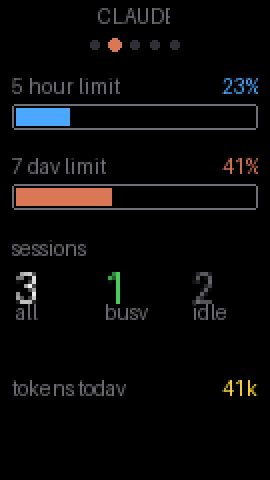
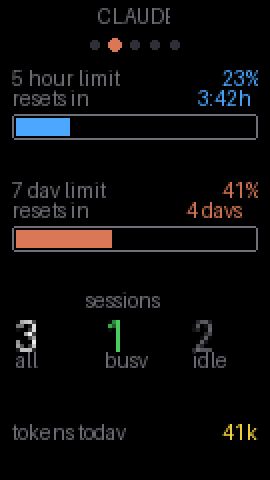
Show when each rate limit resets
The Claude screen said how much of each window was gone but not when it
comes back, which is the half you act on: 92% with four hours left and 92%
with ten minutes left call for opposite decisions.

`resets_at` was already arriving from the status line and going nowhere.
The bridge now turns it into seconds-remaining and sends that, rather than
the epoch stamp: the stick's clock is only ever what the bridge set, so one
side doing the arithmetic means the two cannot disagree about the hour. A
stamp already in the past reads as unknown, not as zero - the percentage
beside it is stale too.

Each limit is now three rows - name and number, countdown, bar - with the
5-hour window in H:MMh and the weekly one in days.

diff --git a/device/main.py b/device/main.py
@@ -581,6 +581,36 @@ def compact(number):
     return str(number)
 
 
+def hours_left(seconds):
+    """A countdown as '3:42h'. None when the bridge has no reset time.
+
+    Hours and minutes, never seconds: the window is five hours long, and a
+    ticking seconds field on a screen that repaints every few seconds would read
+    as noise rather than as information.
+    """
+    if seconds is None:
+        return None
+    seconds = int(seconds)
+    if seconds <= 0:
+        return "0:00h"
+    return "%d:%02dh" % (seconds // 3600, (seconds % 3600) // 60)
+
+
+def days_left(seconds):
+    """The weekly window as '4 days'.
+
+    Below a day it falls back to hours, because '0 days' is the one answer that
+    reads as broken rather than as nearly-there.
+    """
+    if seconds is None:
+        return None
+    seconds = int(seconds)
+    if seconds < 86400:
+        return hours_left(seconds)
+    days = seconds // 86400
+    return "%d day%s" % (days, "" if days == 1 else "s")
+
+
 def name_size(name):
     """Largest text size the name fits in, capped at 2."""
     Lcd.setTextSize(2)
@@ -709,20 +739,25 @@ def draw_header(index):
             Lcd.fillCircle(left + i * step, dot_y, 2, DARK)
 
 
-def draw_labelled_bar(y, label, value, colour, suffix="%"):
-    """A bar with its name above and its number on the right.
+def draw_labelled_bar(y, label, value, colour, suffix="%", resets=None):
+    """One limit: its name and number, when it rolls over, then the bar.
 
-    The bar hangs off the measured text height rather than a fixed offset, so
-    it keeps its distance if the caption ever changes size.
+    Everything hangs off the measured text height rather than fixed offsets, so
+    the block keeps its spacing if the captions ever change size.
+
+    The countdown sits between the caption and the bar on purpose. A limit is
+    two facts - how much is gone and how long until it comes back - and the
+    second is useless anywhere but next to the first.
     """
     # The caption sits five pixels below the block's reference line, which pulls
-    # it clear of whatever is above and closer to the bar it names - the two
-    # belong together, and the gap upwards is what separates one limit from the
-    # next.
-    label_y = y + 5
-    bar_y = y + Lcd.fontHeight() + 10
-
+    # it clear of whatever is above and closer to the bar it names - the three
+    # rows belong together, and the gap upwards is what separates one limit from
+    # the next.
     Lcd.setTextSize(1)
+    label_y = y + 5
+    reset_y = label_y + Lcd.fontHeight() + 2
+    bar_y = reset_y + Lcd.fontHeight() + 4
+
     Lcd.setTextColor(GREY, BLACK)
     Lcd.drawString(label, 6, label_y)
 
@@ -730,23 +765,36 @@ def draw_labelled_bar(y, label, value, colour, suffix="%"):
         Lcd.setTextColor(GREY, BLACK)
         Lcd.drawRightString("--", WIDTH - 6, label_y)
         draw_bar(6, bar_y, WIDTH - 12, BAR_H, 0.0, DARK)
-        return
+    else:
+        Lcd.setTextColor(colour, BLACK)
+        Lcd.drawRightString("%d%s" % (value, suffix), WIDTH - 6, label_y)
+        draw_bar(6, bar_y, WIDTH - 12, BAR_H, value / 100.0, colour)
 
-    Lcd.setTextColor(colour, BLACK)
-    Lcd.drawRightString("%d%s" % (value, suffix), WIDTH - 6, label_y)
-    draw_bar(6, bar_y, WIDTH - 12, BAR_H, value / 100.0, colour)
+    # Absent for the same reasons the percentage is - no subscription, or no API
+    # response yet - and absent on its own once a window has rolled over and
+    # nothing has reported since. "--" is a real state here too.
+    Lcd.setTextColor(GREY, BLACK)
+    Lcd.drawString("resets in", 6, reset_y)
+    Lcd.setTextColor(colour if resets else GREY, BLACK)
+    Lcd.drawRightString(resets or "--", WIDTH - 6, reset_y)
 
 
 def draw_claude(state):
     draw_header(SCREEN_CLAUDE)
 
-    draw_labelled_bar(34, "5 hour limit", state.get("five_hour"), BLUE)
-    draw_labelled_bar(74, "7 day limit", state.get("seven_day"), BODY)
+    draw_labelled_bar(
+        30, "5 hour limit", state.get("five_hour"), BLUE,
+        resets=hours_left(state.get("five_hour_reset_in")),
+    )
+    draw_labelled_bar(
+        86, "7 day limit", state.get("seven_day"), BODY,
+        resets=days_left(state.get("seven_day_reset_in")),
+    )
 
     sessions = state.get("sessions") or {}
     Lcd.setTextSize(1)
     Lcd.setTextColor(GREY, BLACK)
-    Lcd.drawString("sessions", 6, 120)
+    Lcd.drawCenterString("sessions", WIDTH // 2, 146)
 
     # Measured rather than hardcoded, same as the main screen: the caption sits
     # a fixed gap below whatever the big digit's height turns out to be.
@@ -754,7 +802,7 @@ def draw_claude(state):
     # The gap is zero because the size-2 digits carry their own padding - the
     # glyphs do not reach the bottom of their 16 px cell - so a metric gap on top
     # of that read as a gulf between the number and its name.
-    number_y = 136
+    number_y = 160
     Lcd.setTextSize(2)
     label_y = number_y + Lcd.fontHeight()
 
@@ -780,9 +828,9 @@ def draw_claude(state):
     # are what actually constrains the day.
     Lcd.setTextSize(1)
     Lcd.setTextColor(GREY, BLACK)
-    Lcd.drawString("tokens today", 6, 190)
+    Lcd.drawString("tokens today", 6, 212)
     Lcd.setTextColor(YELLOW, BLACK)
-    Lcd.drawRightString(compact(state.get("tokens_today", 0)), WIDTH - 6, 190)
+    Lcd.drawRightString(compact(state.get("tokens_today", 0)), WIDTH - 6, 212)
 
 
 # Below this the buddy is hungry enough to look it.

diff --git a/bridge/smoke.py b/bridge/smoke.py
@@ -35,6 +35,12 @@ from state import State  # noqa: E402
 
 STATUSLINE = os.path.join(HERE, "statusline.py")
 
+# The reset stamps are relative to now on purpose: the countdown the Claude
+# screen shows is the difference from the current time, so a fixed epoch would
+# only ever test the expired branch.
+FIVE_HOUR_RESET_IN = 3 * 3600 + 42 * 60
+SEVEN_DAY_RESET_IN = 4 * 86400
+
 FULL_EVENT = {
     "session_id": "sess-1",
     "cwd": "/home/wojciech/repo/m5stack",
@@ -46,8 +52,14 @@ FULL_EVENT = {
     },
     "cost": {"total_cost_usd": 0.0123},
     "rate_limits": {
-        "five_hour": {"used_percentage": 23.5, "resets_at": 1738425600},
-        "seven_day": {"used_percentage": 41.2, "resets_at": 1738857600},
+        "five_hour": {
+            "used_percentage": 23.5,
+            "resets_at": int(time.time()) + FIVE_HOUR_RESET_IN,
+        },
+        "seven_day": {
+            "used_percentage": 41.2,
+            "resets_at": int(time.time()) + SEVEN_DAY_RESET_IN,
+        },
     },
 }
 
@@ -128,11 +140,46 @@ async def main() -> int:
     check("snapshot carries a pose", bool(snap.get("pose")), f"got {snap.get('pose')!r}")
     check("five_hour present", snap["five_hour"] == 23.5, f"got {snap['five_hour']}")
 
+    # A couple of seconds of slack: the statusline subprocesses above are slow
+    # enough that an exact match would be flaky.
+    left = snap["five_hour_reset_in"]
+    check(
+        "five_hour counts down",
+        left is not None and abs(left - FIVE_HOUR_RESET_IN) <= 10,
+        f"got {left}, wanted about {FIVE_HOUR_RESET_IN}",
+    )
+    week = snap["seven_day_reset_in"]
+    check(
+        "seven_day counts down",
+        week is not None and abs(week - SEVEN_DAY_RESET_IN) <= 10,
+        f"got {week}, wanted about {SEVEN_DAY_RESET_IN}",
+    )
+
     print("\n-- 3. unknown limits are None, never 0 --")
     empty = State()
     empty_snap = empty.snapshot()
     check("five_hour is None", empty_snap["five_hour"] is None, f"got {empty_snap['five_hour']!r}")
     check("seven_day is None", empty_snap["seven_day"] is None, f"got {empty_snap['seven_day']!r}")
+    check(
+        "five_hour_reset_in is None",
+        empty_snap["five_hour_reset_in"] is None,
+        f"got {empty_snap['five_hour_reset_in']!r}",
+    )
+
+    # A window that rolled over with nothing reporting since: the percentage
+    # beside it is stale too, so the countdown must not show 0 as if it were a
+    # fresh reading.
+    expired = State()
+    expired.observe_usage({
+        "session_id": "old",
+        "five_hour_pct": 50.0,
+        "five_hour_reset": int(time.time()) - 120,
+    })
+    check(
+        "a past reset reads as unknown",
+        expired.snapshot()["five_hour_reset_in"] is None,
+        f"got {expired.snapshot()['five_hour_reset_in']!r}",
+    )
 
     print("\n-- 4. mood selection --")
     cases = (

diff --git a/bridge/state.py b/bridge/state.py
@@ -205,8 +205,30 @@ class State:
                 best = (entry.seen_at, value)
         return best[1] if best else None
 
+    def _reset_in(self, attribute: str, now: float) -> int | None:
+        """Seconds until a limit window rolls over, or None if not known.
+
+        `resets_at` is an absolute epoch second, but the device shows a
+        countdown, so the subtraction happens here: the stick has no clock of
+        its own beyond what the bridge sets, and one side doing the arithmetic
+        means the two can never disagree about the hour.
+
+        A stamp already in the past means the window rolled over and no status
+        line has been drawn since - the percentage beside it is stale too, so
+        this reads as unknown rather than as zero.
+        """
+        stamp = self._limit(attribute)
+        if stamp is None:
+            return None
+        try:
+            remaining = int(stamp) - int(now)
+        except (TypeError, ValueError):
+            return None
+        return remaining if remaining > 0 else None
+
     def snapshot(self, now: float | None = None) -> dict:
         counts = sessions_mod.summarise(self.sessions)
+        moment = now if now is not None else time.time()
         game = self.game.view(now or time.time()) if self.game else self._fallback
 
         snap = {
@@ -229,6 +251,8 @@ class State:
             "cost": round(self.cost, 2),
             "five_hour": self._limit("five_hour_pct"),
             "seven_day": self._limit("seven_day_pct"),
+            "five_hour_reset_in": self._reset_in("five_hour_reset", moment),
+            "seven_day_reset_in": self._reset_in("seven_day_reset", moment),
             "sessions": {
                 "total": counts["total"],
                 "busy": counts["busy"],

diff --git a/bridge/buddyctl.py b/bridge/buddyctl.py
@@ -94,11 +94,16 @@ def show(state: dict) -> None:
     print(f"  goals    fed={goals['fed']} petted={goals['petted']}")
     print(f"  tokens   {state['tokens_today']} today")
 
-    def limit(name, value):
-        return f"{value:.0f}%" if value is not None else "unknown"
+    def limit(value, resets_in):
+        if value is None:
+            return "unknown"
+        if resets_in is None:
+            return f"{value:.0f}%"
+        hours, minutes = divmod(int(resets_in) // 60, 60)
+        return f"{value:.0f}%, resets in {hours}:{minutes:02d}h"
 
-    print(f"  5h limit {limit('5h', state.get('five_hour'))}")
-    print(f"  7d limit {limit('7d', state.get('seven_day'))}")
+    print(f"  5h limit {limit(state.get('five_hour'), state.get('five_hour_reset_in'))}")
+    print(f"  7d limit {limit(state.get('seven_day'), state.get('seven_day_reset_in'))}")
     print(f"  usage    reported by {state.get('usage_seen', 0)} session(s)")
     print(f"  pose     {state.get('pose')}")
     print(f"  device   {'connected' if state['connected'] else 'not connected'}")

diff --git a/bridge/bridge.py b/bridge/bridge.py
@@ -104,6 +104,8 @@ class Bridge:
                     # them and the device is not drawing them.
                     "five_hour": snap["five_hour"],
                     "seven_day": snap["seven_day"],
+                    "five_hour_reset_in": snap["five_hour_reset_in"],
+                    "seven_day_reset_in": snap["seven_day_reset_in"],
                     "usage_seen": len(self.state._usage),
                     "pose": snap["pose"],
                 },

diff --git a/tools/screenshot.py b/tools/screenshot.py
@@ -217,6 +217,8 @@ BASE = {
     "debt": 4480,
     "five_hour": 23,
     "seven_day": 41,
+    "five_hour_reset_in": 3 * 3600 + 42 * 60,
+    "seven_day_reset_in": 4 * 86400 + 9 * 3600,
     "sessions": {"total": 3, "busy": 1, "idle": 2},
     "taps_left": 53,
     "taps_total": 100,

diff --git a/README.md b/README.md
@@ -12,7 +12,7 @@ only you can bring it back.
   &nbsp;&nbsp;
   <img src="docs/screens/level.png" width="200" alt="The level screen: level, progress bar, today's goals and click count">
   &nbsp;&nbsp;
-  <img src="docs/screens/claude.png" width="200" alt="The Claude screen: 5-hour and 7-day limit bars, live session counts, tokens today">
+  <img src="docs/screens/claude.png" width="200" alt="The Claude screen: 5-hour and 7-day limits with the time until each resets, live session counts, tokens today">
 </p>
 
 Nothing is flashed over the stock firmware: this is MicroPython running on top
@@ -132,10 +132,13 @@ done at midnight earns half a heart. Missing either costs a whole one.
 
 <img src="docs/screens/claude.png" width="180" align="right" alt="Claude screen">
 
-Your 5-hour and 7-day limits as bars, how many Claude Code sessions are alive
-and how many are busy, and today's tokens. `--` instead of a percentage means
-the limit is not known yet: it appears after the first API response of a
-session, and only on Pro and Max plans.
+Your 5-hour and 7-day limits as bars, each with how much is gone and how long
+until it comes back — `3:42h` for the session window, `4 days` for the weekly
+one. Below them: how many Claude Code sessions are alive, how many are busy, and
+today's tokens. `--` instead of a percentage means the limit is not known yet:
+it appears after the first API response of a session, and only on Pro and Max
+plans. The countdown can be `--` on its own too, once a window has rolled over
+and no status line has been drawn since.
 
 <br clear="right">
 
